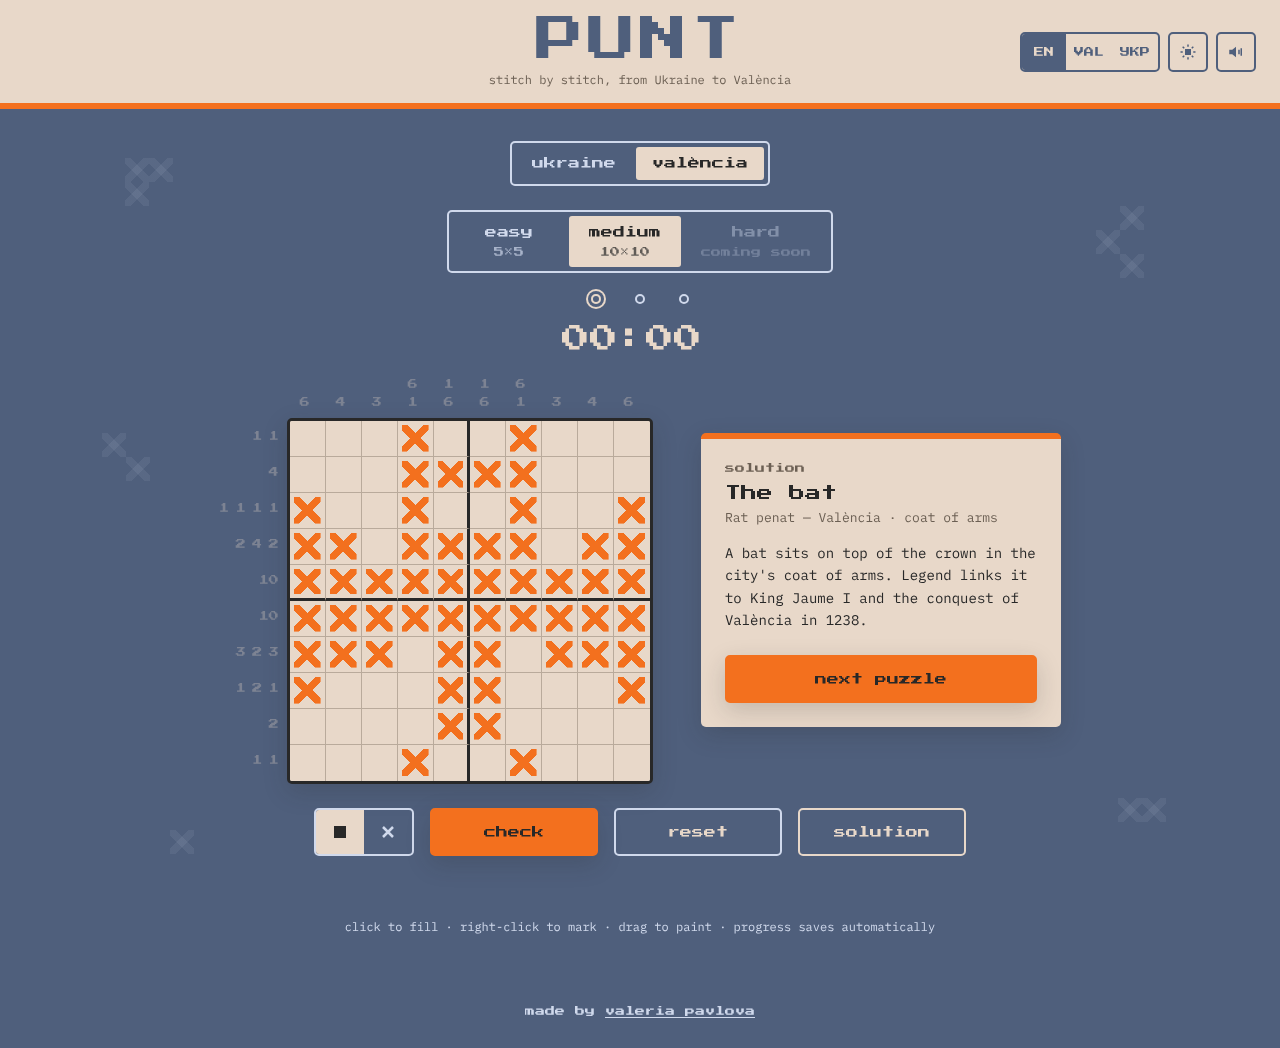
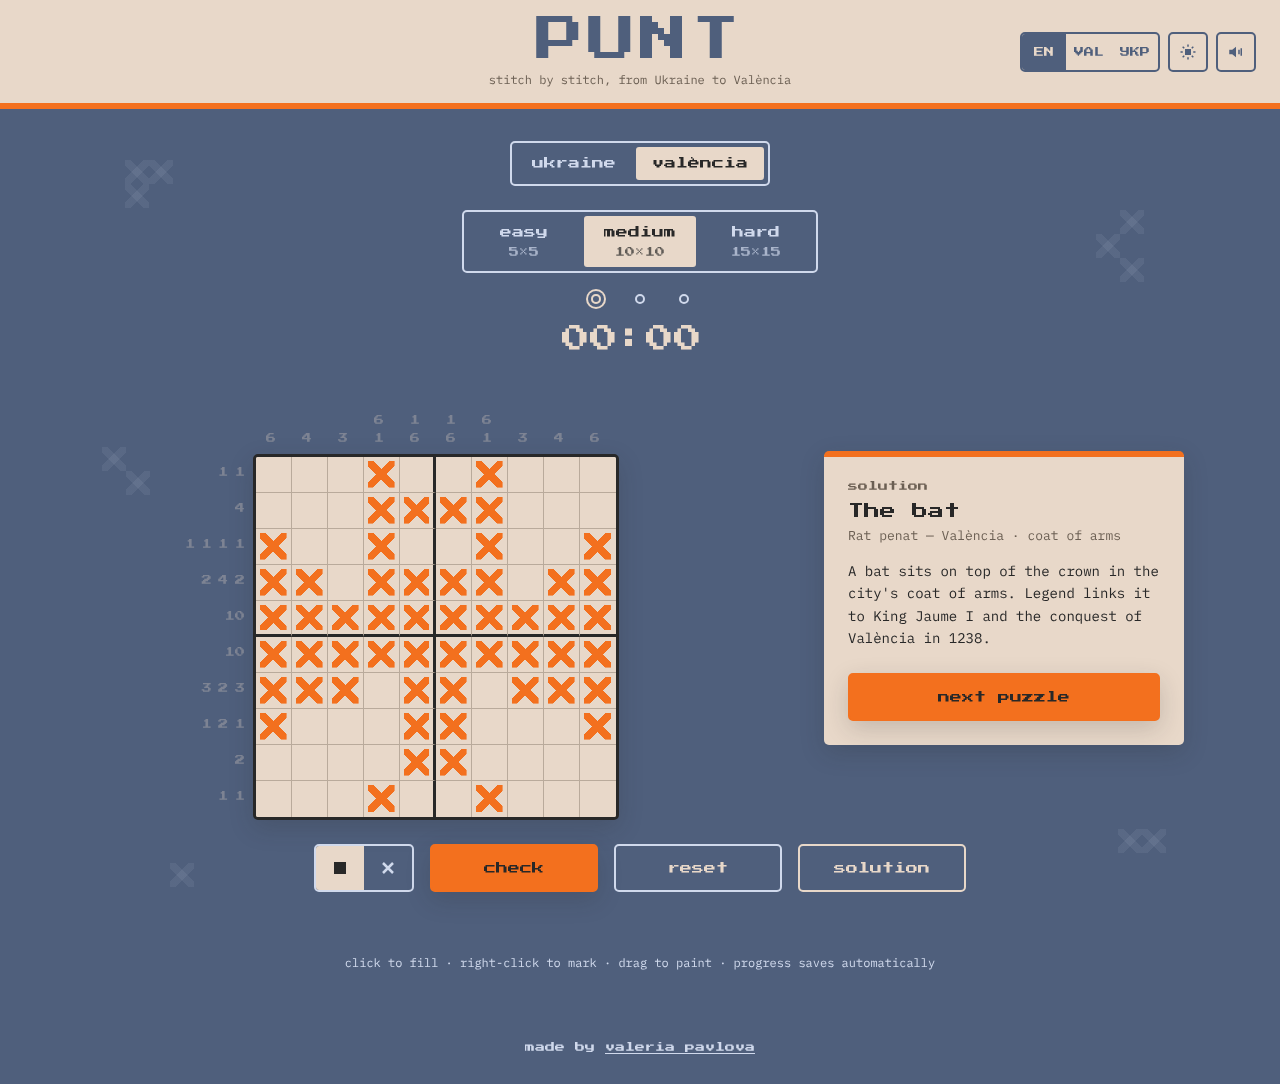
Update README and screenshots for hard puzzles, centred grid and sounds
Claude-Session: https://claude.ai/code/session_01DfzDpTFh4EABuqz4BvShxV

diff --git a/README.md b/README.md
@@ -12,14 +12,14 @@
 
 A nonogram chart and a cross-stitch chart are the same thing: a square grid where each cell is either stitched or left as bare linen. **Stitch = pixel.** I built the game on that idea and on the two places it connects:
 
-- **Ukraine** — motifs from *vyshyvanka* embroidery and *pysanky*: *Wolf's teeth* (a protective border), *Sown field* (a wish for a good harvest), *Rakes*, *Ram's horns*, the eight-pointed star, the little pine and the rose.
-- **València** — symbols of the city: the *orange* of l'Horta and the *rat penat*, the bat on the city's coat of arms, the fan of Aldaia, a Manises tile, the Micalet tower and the paella.
+- **Ukraine** — motifs from *vyshyvanka* embroidery and *pysanky*: *Wolf's teeth* (a protective border), *Sown field* (a wish for a good harvest), *Rakes*, *Ram's horns*, the eight-pointed star, the little pine, the rose, the *Tree of life* and the *Peahen* of the rushnyky.
+- **València** — symbols of the city: the *orange* of l'Horta and the *rat penat*, the bat on the city's coat of arms, the fan of Aldaia, a Manises tile, the orange blossom, the Micalet tower, the paella, a *barraca* of l'Albufera and the Serranos Towers.
 
 The game uses the same pixel-and-thread language in its UI: a pixel typeface, a grid on linen, and a cross-stitch reveal when you win.
 
 ## Features
 
-- Two collections (Ukraine, València) with **13 puzzles**: several **easy 5×5** and **medium 10×10** puzzles per collection. **Hard 15×15** is locked and shows a visible “coming soon” label.
+- Two collections (Ukraine, València) with **18 puzzles**: 4 **easy 5×5**, 3 **medium 10×10** and 2 **hard 15×15** per collection.
 - **Progress dots** under the level switch: one dot per puzzle — filled when solved, a ring around the current one. Tap a dot to open that puzzle. **Next puzzle** goes to the next unsolved puzzle in the level, then to the next level. Revealing the solution does not count as solved.
 - Every puzzle is checked by a solver to have **exactly one solution**.
 - **Three languages**: English, Valencian, Ukrainian. All UI strings live in one file, `src/i18n.js`. On the first visit the language follows the browser.
@@ -29,10 +29,16 @@ The game uses the same pixel-and-thread language in its UI: a pixel typeface, a 
 - Solved rows and columns fade their clues. The row and column under the pointer are highlighted.
 - **Check** outlines and hatches wrong cells, and says “no mistakes so far” or “N mistakes”. The message is also announced to screen readers.
 - Timer and best time per puzzle.
-- **Phones**: the game fits one screen (`100dvh`, safe areas for the notch and the home bar). The board is sized from the space that is really left, width and height. Collection and level share one compact row (UA / VAL · 5 / 10 / 15), so a 10×10 board keeps cells of at least 24px even on an iPhone SE with Safari's bars. The controls sit in one row at the bottom, in thumb reach: ■/✕, then check, reset and solution as icons with captions (text on buttons is never under 12px). The story opens as a bottom sheet over the game.
+- **The grid stays in the centre**: the row clues hang to the left of the cell grid, so the grid itself sits in the middle of the screen. Room for the clues is reserved for the longest clues of the whole level, so the grid does not jump when you switch puzzles. On a narrow phone, when centring would make the cells smaller than 24px, the grid moves right only as far as it has to.
+- **Phones**: the game fits one screen (`100dvh`, safe areas for the notch and the home bar). The board is sized from the space that is really left, width and height. Collection and level share one compact row (UA / VAL · 5 / 10 / 15), so a 10×10 board keeps cells of at least 24px even on an iPhone SE with Safari's bars. On hard 15×15 the clues get compact spacing; the cells are 20px on an iPhone SE (17–18px while Safari's bars are showing). The controls sit in one row at the bottom, in thumb reach: ■/✕, then check, reset and solution as icons with captions (text on buttons is never under 12px). The story opens as a bottom sheet over the game.
 - **Progress saves automatically**: the board on every move, the timer every 5 s and when the tab is closed. Language, palette and sound settings are remembered too.
 - **Win animation**: the stitches “sew in” diagonally. With `prefers-reduced-motion` they appear without animation.
-- Optional 8-bit click sound, off by default.
+- **Sound** (Web Audio, no audio files), off by default: turn it on with the speaker button in the header; the choice is remembered. Volume stays low (master gain 0.15).
+  - fill a cell: a short soft stitch, like a needle through fabric
+  - mark ✕ or clear a cell: a quieter, muffled click
+  - a row or column is complete: a small bell
+  - mistakes after **check**: a low, short, soft tone
+  - win: a 1–2 s melody per collection — plucked, bandura-like for Ukraine; brighter bells for València
 
 <p>
   <img src="assets/screenshots/mobile-ukraine-alt.png" alt="Ukraine collection, alternative dark palette, on a phone" width="260">
@@ -84,7 +90,7 @@ Fixes I made along the way:
 
 - The board is a labelled group. Each cell is a `<button>` whose label includes its position and state, e.g. “Row 3, column 1, filled”.
 - The timer is not a live region, so it isn't read every second. Wins and check results are announced politely.
-- The locked hard level uses `aria-disabled` instead of `disabled`, so keyboard and screen reader users can still reach it and hear “coming soon”.
+- A level without puzzles uses `aria-disabled` instead of `disabled`, so keyboard and screen reader users can still reach it and hear “coming soon”.
 
 ## Stack
 
@@ -100,6 +106,7 @@ src/
   i18n.js               all interface strings (en · ca · uk)
   storage.js            localStorage (progress, best times, settings)
   ui.js                 rendering
+  sound.js              Web Audio sounds
 scripts/
   check-puzzles.js      verifies every puzzle has exactly one solution
   screenshots.cjs       renders README screenshots, OG image, PNG icons
@@ -118,11 +125,11 @@ npm start
 
 Then open http://localhost:8000. Any static server works.
 
-## Adding puzzles (and unlocking hard 15×15)
+## Adding puzzles
 
-Every level is a **list** of puzzles. To add one to easy or medium, append it to the end of that list (progress is saved by position, so don't reorder existing puzzles).
+Every level is a **list** of puzzles. To add one, append it to the end of that list (progress is saved by position, so don't reorder existing puzzles).
 
-1. Open `src/puzzles.js` and add a `hard: [ … ]` list to a collection, in the same format as the others. `grid` is 15 strings of 15 characters, with `#` for a stitch and `.` for empty.
+1. Open `src/puzzles.js` and add the puzzle in the same format as the others. `grid` is 5, 10 or 15 strings (easy, medium, hard) of as many characters, with `#` for a stitch and `.` for empty.
 2. Run the checker:
 
    ```bash
@@ -130,7 +137,7 @@ Every level is a **list** of puzzles. To add one to easy or medium, append it to
    ```
 
    It checks the size, the characters, the texts in all three languages, that no grid is used twice, and that the clues have **exactly one solution**. If anything fails, it exits with code 1.
-3. That's it: the **hard** button unlocks by itself for that collection. Collections without a hard puzzle keep showing “coming soon”.
+3. That's it. A level button unlocks by itself once its list has a puzzle; an empty level shows “coming soon”.
 
 ## Publishing on GitHub Pages
 
